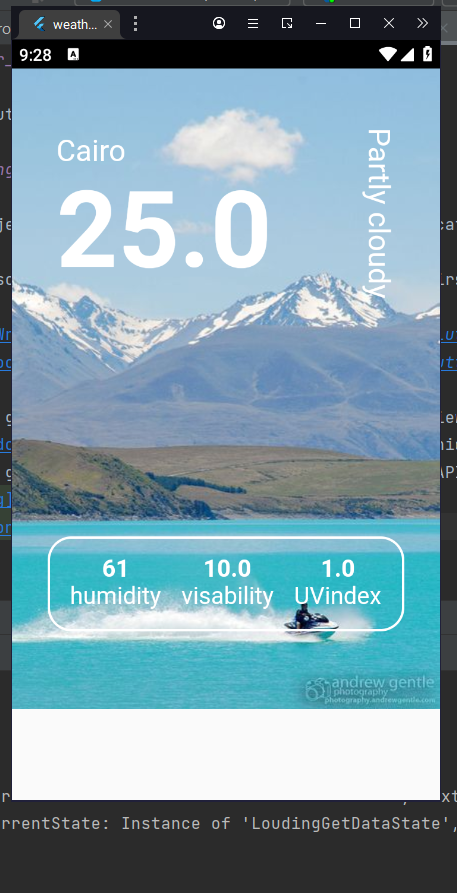
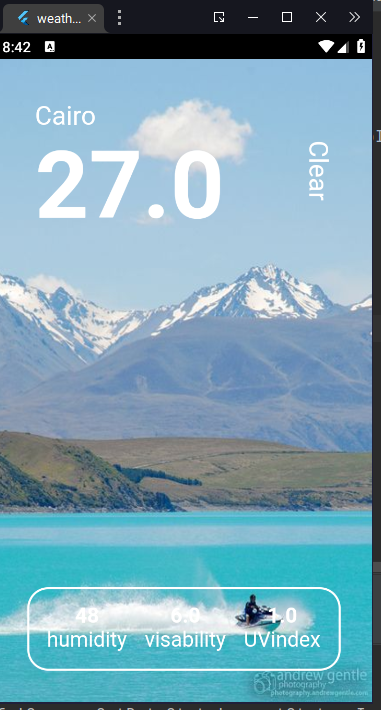
finish

diff --git a/weather_app/lib/screens/weather-screen.dart b/weather_app/lib/screens/weather-screen.dart
@@ -27,9 +27,9 @@ class WeatherScreen extends StatelessWidget {
                 children: [
                   Image.asset(cubit.weatherModel!.current!.tempC!.toInt()>19?Constants.kSunnyImage:Constants.kWinterImage, fit: BoxFit.fill,height: double.maxFinite,),
                 Column(
-                  mainAxisAlignment: MainAxisAlignment.spaceEvenly,
-                    children: [
 
+                    children: [
+SizedBox(height: 40,),
                       Row(
                         mainAxisAlignment: MainAxisAlignment.spaceAround,
                         children: [
@@ -55,8 +55,9 @@ class WeatherScreen extends StatelessWidget {
                               ),),)
                         ],
                       ),
-
-                      DetailBlock()
+Spacer(),
+                      DetailBlock(),
+                      SizedBox(height: 30,)
                     ],
                   )
                 ],
